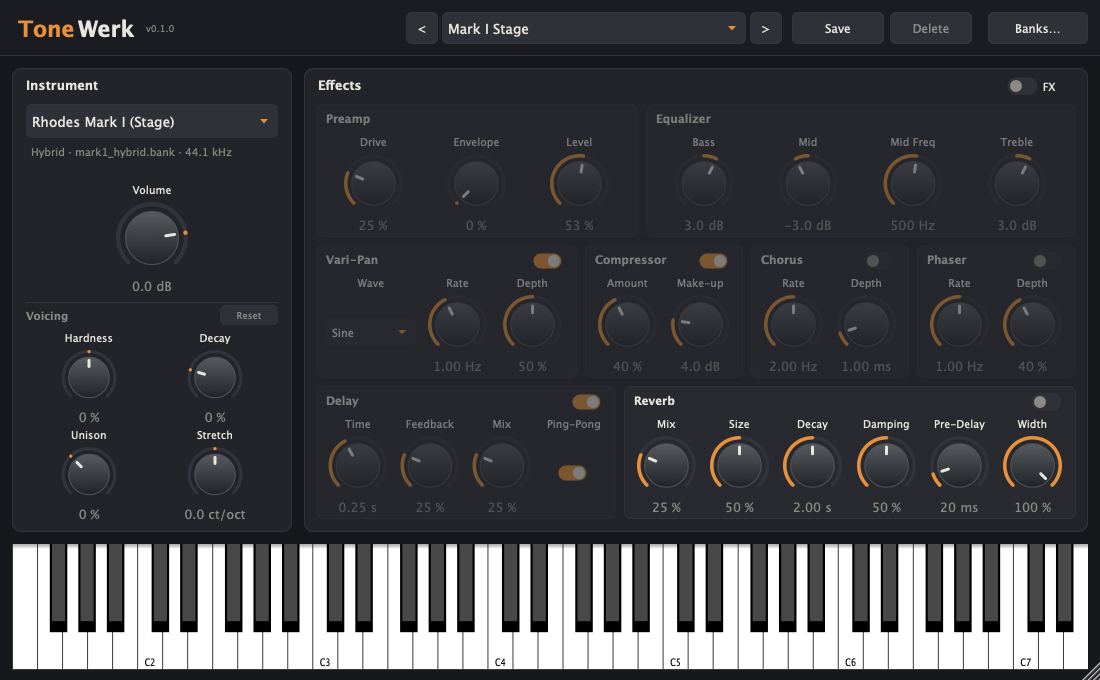
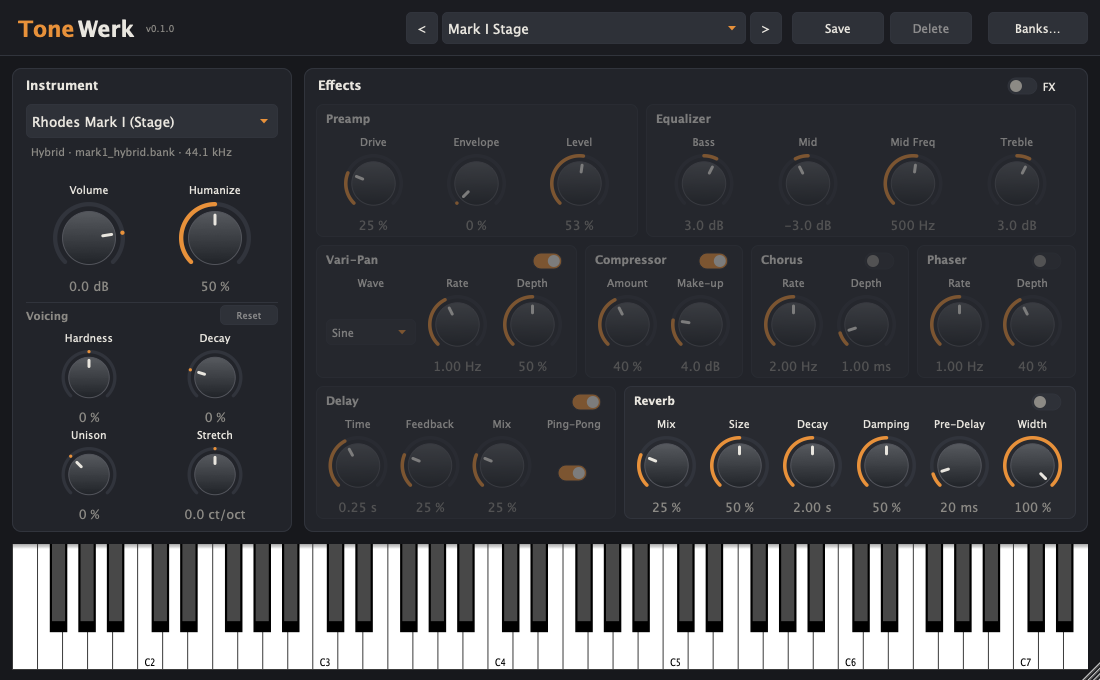
Humanize: every strike scatters a little
The hybrid voices played a velocity bit for bit the same every time. Like
the physical model's human.speed, each note-on's velocity is now
multiplied by exp(sigma g), g ~ N(0, 1); 50 % (the default) is the
physical presets' hammer-speed scatter (human.speed 0.05) carried over to
the velocity (sigma 0.038 of ln velocity), 100 % twice that. The plugin
applies it to every instrument and builds the engine with human.speed = 0
(no double scatter on the model; its felt scatter stays).

Measured: sigma 0.0375 / 0.0758 at 50 / 100 % (no bias, clamped to
1..127); at 100 % the level of repeated strikes scatters by 1.1 dB. At 0 %
the hybrid voices repeat a strike bit for bit at the bank's rate; through
the resampler a strike lands at another fraction of an engine sample each
time (-30 ... -39 dB of difference, a shift below 23 us).

Measuring tests run with humanize 0 (one level check went over its limit
when a velocity scattered upwards).

diff --git a/tests/HumanizeTests.cpp b/tests/HumanizeTests.cpp
@@ -1,0 +1,134 @@
+// SPDX-License-Identifier: GPL-3.0-or-later
+// SPDX-FileCopyrightText: 2026 Michi71
+#include <BankLocator.h>
+#include <Humanize.h>
+#include <Parameters.h>
+#include <PluginProcessor.h>
+
+#include <catch2/catch_test_macros.hpp>
+
+#include <cmath>
+#include <vector>
+
+namespace
+{
+void set (PluginProcessor& p, const char* id, float value)
+{
+    auto* param = dynamic_cast<juce::RangedAudioParameter*> (p.state().getParameter (id));
+    REQUIRE (param != nullptr);
+    param->setValueNotifyingHost (param->convertTo0to1 (value));
+}
+
+bool ready (PluginProcessor& p)
+{
+    juce::AudioBuffer<float> buffer (2, 512);
+    juce::MidiBuffer midi;
+    for (int i = 0; i < 6000 && !p.instrumentReady(); ++i)
+    {
+        p.processBlock (buffer, midi);
+        juce::Thread::sleep (5);
+    }
+    return p.instrumentReady();
+}
+
+// one strike of C4 at velocity 100 out of silence: the left channel of 0.4 s
+std::vector<float> strike (PluginProcessor& p)
+{
+    juce::AudioBuffer<float> buffer (2, 512);
+    for (int b = 0; b < int (1.5 * 48000.0 / 512); ++b) // the previous strike off and gone
+    {
+        juce::MidiBuffer off;
+        if (b == 0)
+            off.addEvent (juce::MidiMessage::noteOff (1, 60), 0);
+        p.processBlock (buffer, off);
+    }
+    std::vector<float> out;
+    for (int b = 0; b < int (0.4 * 48000.0 / 512); ++b)
+    {
+        juce::MidiBuffer midi;
+        if (b == 0)
+            midi.addEvent (juce::MidiMessage::noteOn (1, 60, (juce::uint8) 100), 0);
+        buffer.clear();
+        p.processBlock (buffer, midi);
+        out.insert (out.end(), buffer.getReadPointer (0), buffer.getReadPointer (0) + 512);
+    }
+    return out;
+}
+
+double rmsDb (const std::vector<float>& x)
+{
+    double s = 0.0;
+    for (const float v : x)
+        s += double (v) * v;
+    return 10.0 * std::log10 (s / double (x.size()));
+}
+} // namespace
+
+TEST_CASE ("Humanize scatters the velocity as specified", "[humanize]")
+{
+    tw::Humanize h (12345);
+    CHECK (h.apply (100, 0.0) == 100);
+    CHECK (h.apply (0, 1.0) == 0);
+    for (const double amount : { 0.5, 1.0 })
+    {
+        double sum = 0.0, sum2 = 0.0;
+        int lo = 127, hi = 1;
+        constexpr int n = 20000;
+        for (int i = 0; i < n; ++i)
+        {
+            const int v = h.apply (64, amount);
+            const double d = std::log (double (v) / 64.0);
+            sum += d, sum2 += d * d;
+            lo = std::min (lo, v), hi = std::max (hi, v);
+        }
+        const double mean = sum / n, sigma = std::sqrt (sum2 / n - mean * mean);
+        WARN ("amount " << amount << ": sigma of ln(velocity) " << sigma << " (target " << tw::Humanize::kSigmaAtFull * amount
+                        << "), mean " << mean << ", range " << lo << ".." << hi);
+        CHECK (std::abs (mean) < 0.005);
+        CHECK (std::abs (sigma / (tw::Humanize::kSigmaAtFull * amount) - 1.0) < 0.15);
+    }
+    for (int i = 0; i < 1000; ++i)
+    {
+        const int v = h.apply (127, 1.0);
+        CHECK ((v >= 1 && v <= 127));
+    }
+}
+
+TEST_CASE ("Humanize makes repeated strikes differ, and off they are identical", "[humanize][audio]")
+{
+    PluginProcessor plugin;
+    plugin.setRateAndBufferSizeDetails (48000.0, 512);
+    plugin.prepareToPlay (48000.0, 512);
+    plugin.seedHumanize (7);
+    REQUIRE (ready (plugin));
+
+    set (plugin, tw::ids::humanize, 100.0f);
+    std::vector<double> levels;
+    for (int i = 0; i < 12; ++i)
+        levels.push_back (rmsDb (strike (plugin)));
+    double mean = 0.0, var = 0.0;
+    for (const double l : levels)
+        mean += l / double (levels.size());
+    for (const double l : levels)
+        var += (l - mean) * (l - mean) / double (levels.size());
+    WARN ("humanize 100 %: level of 12 strikes scatters by " << std::sqrt (var) << " dB (" << plugin.instrumentStatus() << ")");
+    CHECK (std::sqrt (var) > 0.1);
+    CHECK (std::sqrt (var) < 2.0);
+
+}
+
+TEST_CASE ("Without humanize the hybrid voices repeat a strike bit for bit", "[humanize][audio]")
+{
+    // at the bank's rate (44.1 kHz): through the resampler a strike lands at another fraction of an engine sample each time
+    // (measured at 48 kHz: -30 ... -39 dB of difference, a shift below 23 us). The physical model keeps its felt scatter.
+    if (tw::findBank (1) == juce::File())
+        SKIP ("no banks found");
+    PluginProcessor plugin;
+    plugin.setRateAndBufferSizeDetails (44100.0, 512);
+    plugin.prepareToPlay (44100.0, 512);
+    REQUIRE (ready (plugin));
+    set (plugin, tw::ids::humanize, 0.0f);
+    strike (plugin);
+    CHECK (strike (plugin) == strike (plugin));
+}
+

diff --git a/tests/ToneWerkTests.cpp b/tests/ToneWerkTests.cpp
@@ -105,6 +105,7 @@ TEST_CASE ("A note sounds, at the bank's rate and resampled", "[audio]")
             PluginProcessor plugin;
             plugin.setRateAndBufferSizeDetails (rate, 256);
             plugin.prepareToPlay (rate, 256);
+            setParam (plugin, tw::ids::humanize, 0.0f); // measurements at the nominal velocity
             REQUIRE (waitForInstrument (plugin, 256));
             INFO (plugin.instrumentStatus());
             const auto [l, r] = playNote (plugin, rate, 256, 60, 1.0);
@@ -122,6 +123,7 @@ TEST_CASE ("Every instrument builds and plays or reports why not", "[audio][inst
     PluginProcessor plugin;
     plugin.setRateAndBufferSizeDetails (48000.0, 512);
     plugin.prepareToPlay (48000.0, 512);
+    setParam (plugin, tw::ids::humanize, 0.0f); // measurements at the nominal velocity
     for (int i = 0; i < pmp::Params::presetCount(); ++i)
     {
         INFO ("instrument " << pmp::Params::presetId (i));
@@ -139,6 +141,7 @@ TEST_CASE ("The effect chain changes the sound and stays bounded", "[audio][fx]"
     PluginProcessor plugin;
     plugin.setRateAndBufferSizeDetails (48000.0, 512);
     plugin.prepareToPlay (48000.0, 512);
+    setParam (plugin, tw::ids::humanize, 0.0f); // measurements at the nominal velocity
     REQUIRE (waitForInstrument (plugin, 512));
     const auto dry = playNote (plugin, 48000.0, 512, 55, 0.8);
     setParam (plugin, tw::ids::fxOn, 1.0f);
@@ -155,6 +158,7 @@ TEST_CASE ("The reverb lengthens the release", "[audio][reverb]")
         PluginProcessor plugin;
         plugin.setRateAndBufferSizeDetails (48000.0, 512);
         plugin.prepareToPlay (48000.0, 512);
+        setParam (plugin, tw::ids::humanize, 0.0f); // measurements at the nominal velocity
         REQUIRE (waitForInstrument (plugin, 512));
         setParam (plugin, tw::ids::reverbOn, reverb ? 1.0f : 0.0f);
         setParam (plugin, tw::ids::reverbDecay, 3.0f);
@@ -191,6 +195,7 @@ static double switchClick (const char* switchId, bool on)
     constexpr int block = 256;
     plugin.setRateAndBufferSizeDetails (rate, block);
     plugin.prepareToPlay (rate, block);
+    setParam (plugin, tw::ids::humanize, 0.0f); // measurements at the nominal velocity
     REQUIRE (waitForInstrument (plugin, block));
     setParam (plugin, switchId, on ? 0.0f : 1.0f);
     juce::AudioBuffer<float> buffer (2, block);
@@ -315,6 +320,7 @@ TEST_CASE ("Note onset latency", "[.latency]")
         constexpr int block = 64;
         plugin.setRateAndBufferSizeDetails (rate, block);
         plugin.prepareToPlay (rate, block);
+        setParam (plugin, tw::ids::humanize, 0.0f); // measurements at the nominal velocity
         for (int i = 0; i < pmp::Params::presetCount(); ++i)
         {
             setParam (plugin, tw::ids::instrument, float (i));
@@ -369,6 +375,7 @@ TEST_CASE ("Voicing extremes per instrument", "[.voicing]")
     PluginProcessor plugin;
     plugin.setRateAndBufferSizeDetails (48000.0, 512);
     plugin.prepareToPlay (48000.0, 512);
+    setParam (plugin, tw::ids::humanize, 0.0f); // measurements at the nominal velocity
     for (int i = 0; i < pmp::Params::presetCount(); ++i)
     {
         double rms0 = 0.0, bright0 = 0.0;
@@ -440,6 +447,7 @@ TEST_CASE ("Instrument levels before the soft clip", "[.levels]")
     PluginProcessor plugin;
     plugin.setRateAndBufferSizeDetails (48000.0, 512);
     plugin.prepareToPlay (48000.0, 512);
+    setParam (plugin, tw::ids::humanize, 0.0f); // measurements at the nominal velocity
     setParam (plugin, tw::ids::volume, -24.0f);
     struct Play
     {
@@ -523,6 +531,7 @@ TEST_CASE ("Loud chords stay out of the soft clip", "[audio][levels]")
     PluginProcessor plugin;
     plugin.setRateAndBufferSizeDetails (48000.0, 512);
     plugin.prepareToPlay (48000.0, 512);
+    setParam (plugin, tw::ids::humanize, 0.0f); // measurements at the nominal velocity
     for (const char* id : { "wurli200a", "clav6", "mk8", "grandpas" })
     {
         setParam (plugin, tw::ids::instrument, float (pmp::Params::presetIndex (id)));

diff --git a/source/Humanize.h b/source/Humanize.h
@@ -1,0 +1,52 @@
+// SPDX-License-Identifier: GPL-3.0-or-later
+// SPDX-FileCopyrightText: 2026 Michi71
+// Humanize.h - strike variation: every note-on's velocity scatters a little
+//
+// The hybrid voices play a velocity bit for bit the same every time; a player's strikes never are. Like the physical model's
+// human.speed (the hammer speed scattered per strike), each velocity is multiplied by exp(sigma g), g ~ N(0, 1): the level
+// and, through the layer blend, the timbre move a little. 50 % is the physical presets' human.speed = 0.05 (sigma of ln speed)
+// carried over to the velocity (speed ~ velocity^1.33: sigma 0.038), 100 % twice that. Real-time safe; the plugin applies
+// it to every instrument and builds the engine with human.speed = 0 (no double scatter on the model).
+#pragma once
+
+#include <cmath>
+#include <cstdint>
+
+namespace tw
+{
+class Humanize
+{
+public:
+    static constexpr double kSigmaAtFull = 0.075; // sigma of ln(velocity) at 100 %
+
+    explicit Humanize (uint64_t seed = 0x9E3779B97F4A7C15ULL) : state_ (seed | 1) {}
+    void seed (uint64_t s) { state_ = s | 1; }
+
+    // amount 0..1; velocity 1..127 in, 1..127 out (0 stays 0: a note-off)
+    int apply (int velocity, double amount)
+    {
+        if (velocity <= 0 || amount <= 0.0)
+            return velocity;
+        const double v = double (velocity) * std::exp (kSigmaAtFull * amount * gaussian());
+        return int (std::fmin (127.0, std::fmax (1.0, std::round (v))));
+    }
+
+private:
+    uint64_t next() // xorshift64*
+    {
+        state_ ^= state_ >> 12;
+        state_ ^= state_ << 25;
+        state_ ^= state_ >> 27;
+        return state_ * 0x2545F4914F6CDD1DULL;
+    }
+    double gaussian() // sum of four uniforms, unit variance, within +-3.5 sigma
+    {
+        double s = 0.0;
+        for (int i = 0; i < 4; ++i)
+            s += double (next() >> 11) * 0x1p-53;
+        return (s - 2.0) * 1.7320508075688772;
+    }
+
+    uint64_t state_;
+};
+} // namespace tw

diff --git a/source/PluginEditor.cpp b/source/PluginEditor.cpp
@@ -200,11 +200,12 @@ PluginEditor::PluginEditor (PluginProcessor& p)
     status_.setMinimumHorizontalScale (0.8f);
     addAndMakeVisible (status_);
     volume_ = std::make_unique<tw::Knob> (state, ids::volume, "Volume");
+    humanize_ = std::make_unique<tw::Knob> (state, ids::humanize, "Humanize");
     hardness_ = std::make_unique<tw::Knob> (state, ids::hardness, "Hardness");
     decay_ = std::make_unique<tw::Knob> (state, ids::decay, "Decay");
     unison_ = std::make_unique<tw::Knob> (state, ids::unison, "Unison");
     stretch_ = std::make_unique<tw::Knob> (state, ids::stretch, "Stretch");
-    for (auto* k : { volume_.get(), hardness_.get(), decay_.get(), unison_.get(), stretch_.get() })
+    for (auto* k : { volume_.get(), humanize_.get(), hardness_.get(), decay_.get(), unison_.get(), stretch_.get() })
         addAndMakeVisible (*k);
     resetVoicing_.setTooltip ("Reset the voicing to the instrument as calibrated (all controls 0)");
     resetVoicing_.onClick = [this] { resetVoicing(); };
@@ -354,7 +355,8 @@ void PluginEditor::resized()
     status_.setBounds (ip.removeFromTop (36));
     ip.removeFromBottom (10);
     auto vol = ip.removeFromTop (juce::jmin (130, ip.getHeight() / 3));
-    volume_->setBounds (vol.withSizeKeepingCentre (juce::jmin (120, vol.getWidth()), vol.getHeight()));
+    volume_->setBounds (vol.removeFromLeft (vol.getWidth() / 2));
+    humanize_->setBounds (vol);
     ip.removeFromTop (8);
     voicingTitle_ = ip.removeFromTop (26);
     resetVoicing_.setBounds (voicingTitle_.withLeft (voicingTitle_.getRight() - 58).reduced (0, 3));

diff --git a/source/PluginProcessor.h b/source/PluginProcessor.h
@@ -14,6 +14,7 @@
 #include <core/mk8_fx.h>
 
 #include "InstrumentVoice.h"
+#include "Humanize.h"
 #include "Limiter.h"
 #include "PresetManager.h"
 #include "Reverb.h"
@@ -59,6 +60,8 @@ public:
     juce::String instrumentStatus() const;
     // the bank folder changed: reload the instrument from it
     void reloadBanks() { bankGeneration_.fetch_add (1); }
+    // the strike variation's random sequence, for repeatable tests
+    void seedHumanize (uint64_t seed) { humanize_.seed (seed); }
     // true when the voice built for the current parameters plays (tests; the audio thread adopts it in processBlock)
     bool instrumentReady() const { return readyGeneration_.load() == wantedSignature(); }
 
@@ -90,6 +93,7 @@ private:
     std::atomic<float>* decay_ = nullptr;
     std::atomic<float>* unison_ = nullptr;
     std::atomic<float>* stretch_ = nullptr;
+    std::atomic<float>* humanizeAmount_ = nullptr;
     struct FxParams
     {
         std::atomic<float>*on, *volume, *drive, *envelope, *bass, *mid, *midFreq, *treble, *panOn, *panWave, *panRate, *panDepth,
@@ -122,6 +126,7 @@ private:
     pmp::Mk8Effects fx_;
     tw::Reverb reverb_;
     tw::Limiter limiter_;
+    tw::Humanize humanize_ { uint64_t (juce::Time::getHighResolutionTicks()) };
     float fxGain_ = 0.0f, reverbGain_ = 0.0f, switchStep_ = 0.001f; // cross-fades of the stage switches
     juce::SmoothedValue<float> gain_ { 1.0f };
     juce::AudioBuffer<float> scratch_; // fading voice (0, 1), right channel of a mono output (2), a stage fading in or out (3, 4)

diff --git a/source/Parameters.cpp b/source/Parameters.cpp
@@ -67,6 +67,7 @@ Layout createParameterLayout()
     inst->addChild (number (ids::decay, "Decay", { -90.0f, 300.0f, 1.0f }, 0.0f, "%", 0));
     inst->addChild (number (ids::unison, "Unison", { -100.0f, 200.0f, 1.0f }, 0.0f, "%", 0));
     inst->addChild (number (ids::stretch, "Stretch", { -20.0f, 20.0f, 0.1f }, 0.0f, "ct/oct"));
+    inst->addChild (number (ids::humanize, "Humanize", { 0.0f, 100.0f, 1.0f }, 50.0f, "%", 0));
     layout.add (std::move (inst));
 
     auto fx = std::make_unique<juce::AudioProcessorParameterGroup> ("fx", "Effects", "|");
@@ -120,7 +121,8 @@ const juce::StringArray& allParameterIds()
         ids::panOn, ids::panWave, ids::panRate, ids::panDepth, ids::compOn, ids::compAmount, ids::compMakeup,
         ids::chorusOn, ids::chorusRate, ids::chorusDepth, ids::phaserOn, ids::phaserRate, ids::phaserDepth,
         ids::delayOn, ids::delayTime, ids::delayFeedback, ids::delayMix, ids::delayPingPong,
-        ids::reverbOn, ids::reverbMix, ids::reverbSize, ids::reverbDecay, ids::reverbDamping, ids::reverbPredelay, ids::reverbWidth
+        ids::reverbOn, ids::reverbMix, ids::reverbSize, ids::reverbDecay, ids::reverbDamping, ids::reverbPredelay, ids::reverbWidth,
+        ids::humanize
     };
     return all;
 }

diff --git a/source/PluginProcessor.cpp b/source/PluginProcessor.cpp
@@ -28,6 +28,7 @@ PluginProcessor::PluginProcessor()
     decay_ = raw (ids::decay);
     unison_ = raw (ids::unison);
     stretch_ = raw (ids::stretch);
+    humanizeAmount_ = raw (ids::humanize);
     fxp_ = { raw (ids::fxOn), raw (ids::fxVolume), raw (ids::fxDrive), raw (ids::fxEnvelope), raw (ids::fxBass), raw (ids::fxMid),
         raw (ids::fxMidFreq), raw (ids::fxTreble), raw (ids::panOn), raw (ids::panWave), raw (ids::panRate), raw (ids::panDepth),
         raw (ids::compOn), raw (ids::compAmount), raw (ids::compMakeup), raw (ids::chorusOn), raw (ids::chorusRate),
@@ -219,7 +220,7 @@ void PluginProcessor::handleMidi (const juce::MidiMessage& m)
     if (active_ == nullptr)
         return;
     if (m.isNoteOn())
-        active_->noteOn (m.getNoteNumber(), m.getVelocity());
+        active_->noteOn (m.getNoteNumber(), humanize_.apply (m.getVelocity(), double (humanizeAmount_->load()) * 0.01));
     else if (m.isNoteOff())
         active_->noteOff (m.getNoteNumber());
     else if (m.isAllNotesOff())

diff --git a/source/InstrumentVoice.cpp b/source/InstrumentVoice.cpp
@@ -58,6 +58,7 @@ InstrumentVoice::InstrumentVoice (const VoiceConfig& config, std::shared_ptr<Ban
     p.voicing.stretch = config.stretch;
     p.fxOn = 0.0f;     // the effect chain runs in the plugin at the host rate
     p.softClip = 0.0f; // so does the soft clip, behind it
+    p.humanSpeed = 0.0f; // the strike variation is the plugin's Humanize, for every instrument
     p.masterGain *= float (juce::Decibels::decibelsToGain (outputTrimDb (id)));
 
     const bool wantsBank = p.hybridOn > 0.5f;

diff --git a/source/Parameters.h b/source/Parameters.h
@@ -52,6 +52,8 @@ namespace ids
     inline constexpr const char* reverbDamping = "reverb_damping";
     inline constexpr const char* reverbPredelay = "reverb_predelay";
     inline constexpr const char* reverbWidth = "reverb_width";
+    // strike variation: every note-on's velocity scatters a little (Humanize.h)
+    inline constexpr const char* humanize = "humanize";
 } // namespace ids
 
 // the instruments are the presets of the engine (pmp::Params::presetId)

diff --git a/source/PluginEditor.h b/source/PluginEditor.h
@@ -75,7 +75,7 @@ private:
     juce::ComboBox instrumentBox_;
     std::unique_ptr<juce::AudioProcessorValueTreeState::ComboBoxAttachment> instrumentAttachment_;
     juce::Label status_;
-    std::unique_ptr<tw::Knob> volume_, hardness_, decay_, unison_, stretch_;
+    std::unique_ptr<tw::Knob> volume_, humanize_, hardness_, decay_, unison_, stretch_;
     juce::Rectangle<int> instrumentPanel_, voicingTitle_;
     juce::TextButton resetVoicing_ { "Reset" };
 

diff --git a/README.md b/README.md
@@ -61,6 +61,11 @@ CP80 have none and stay silent. The status line below the instrument choice tell
 - **Volume** (−48 … +12 dB) after the effect chain, followed by a peak limiter (attack 0.1 ms, release 120 ms, no lookahead)
   and the engine's soft clip as the last safeguard: full chords are turned down instead of distorted. The clavinet and the
   Pianet are trimmed by −5 and −6.5 dB to the level of the other instruments.
+- **Humanize** (0–100 %, default 50 %): every strike scatters a little, so no two notes are bit for bit the same. The velocity
+  is multiplied by a random factor exp(σ g); 50 % is the physical presets' hammer-speed scatter (`human.speed` 0.05) carried
+  over to the velocity (σ 0.038 of ln velocity), 100 % twice that. Level and, through the layer blend, timbre move: at 100 %
+  the level of repeated strikes scatters by about 1 dB. Applies to every instrument; the physical model is built without its
+  own speed scatter. At 0 % the hybrid voices repeat a strike bit for bit (at the bank's rate).
 - **Voicing** on the poles and layers of the bank (pmpiano README "Voicing"): hardness, decay, unison, stretch. Every change
   rebuilds the instrument (after 250 ms without further changes); sounding notes stop. The settings stay when the instrument
   changes, and extremes carry over (hardness −200 takes up to 6 dB off the highs, decay +300 lets chords build up into the soft
